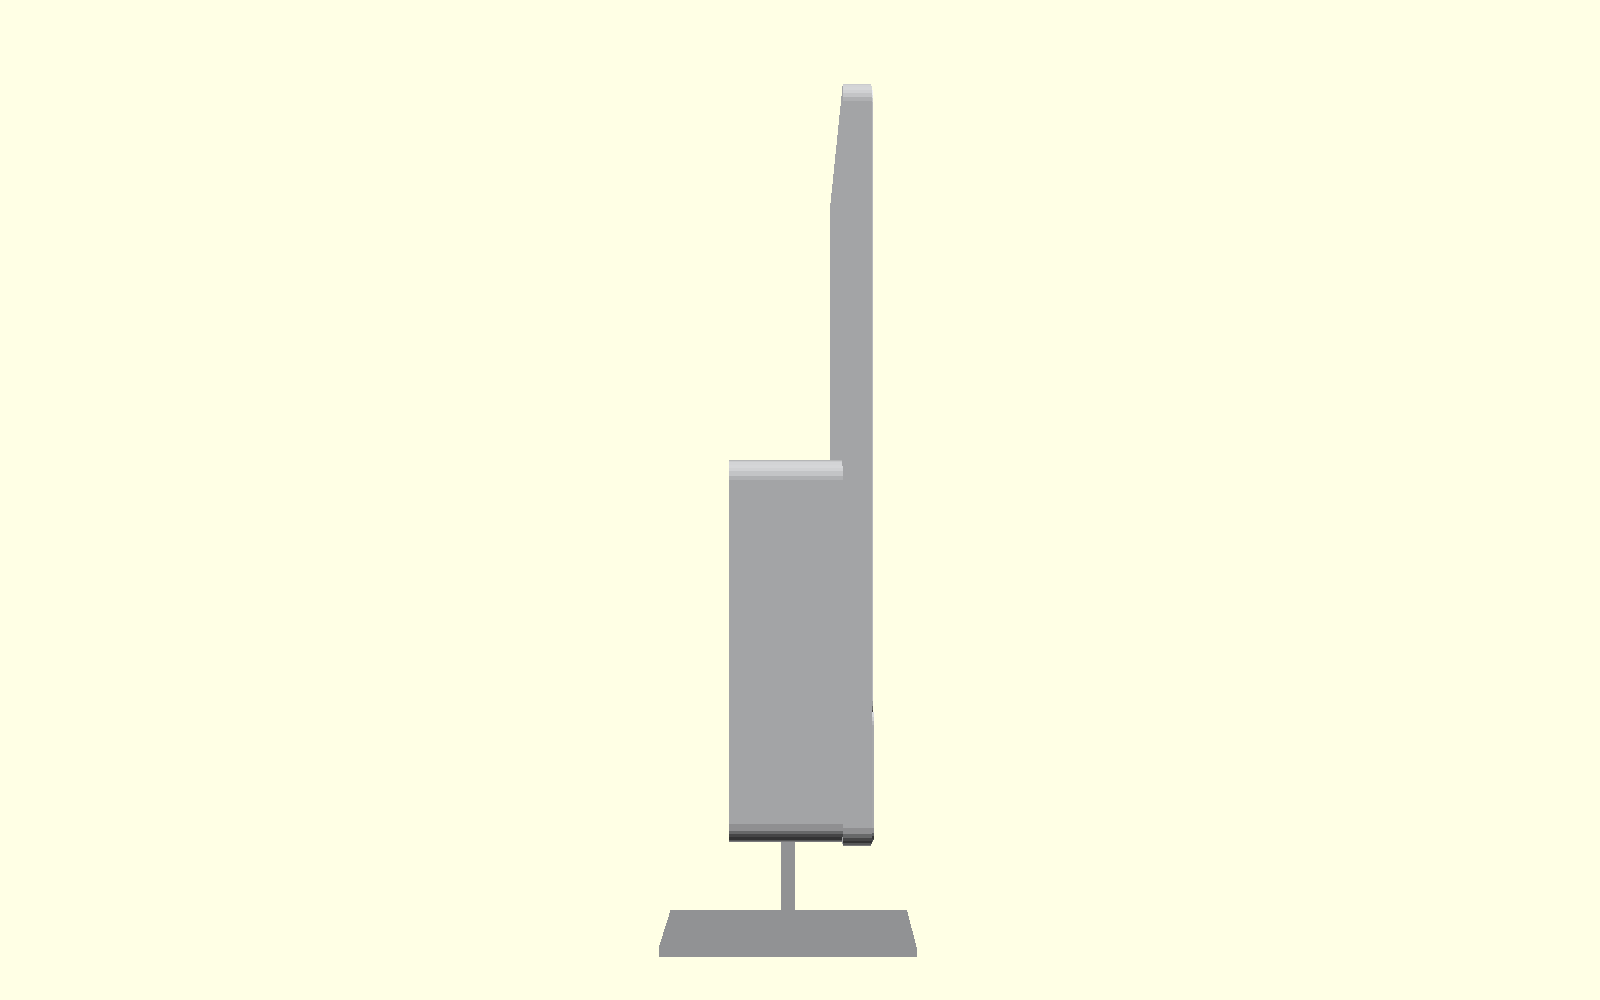
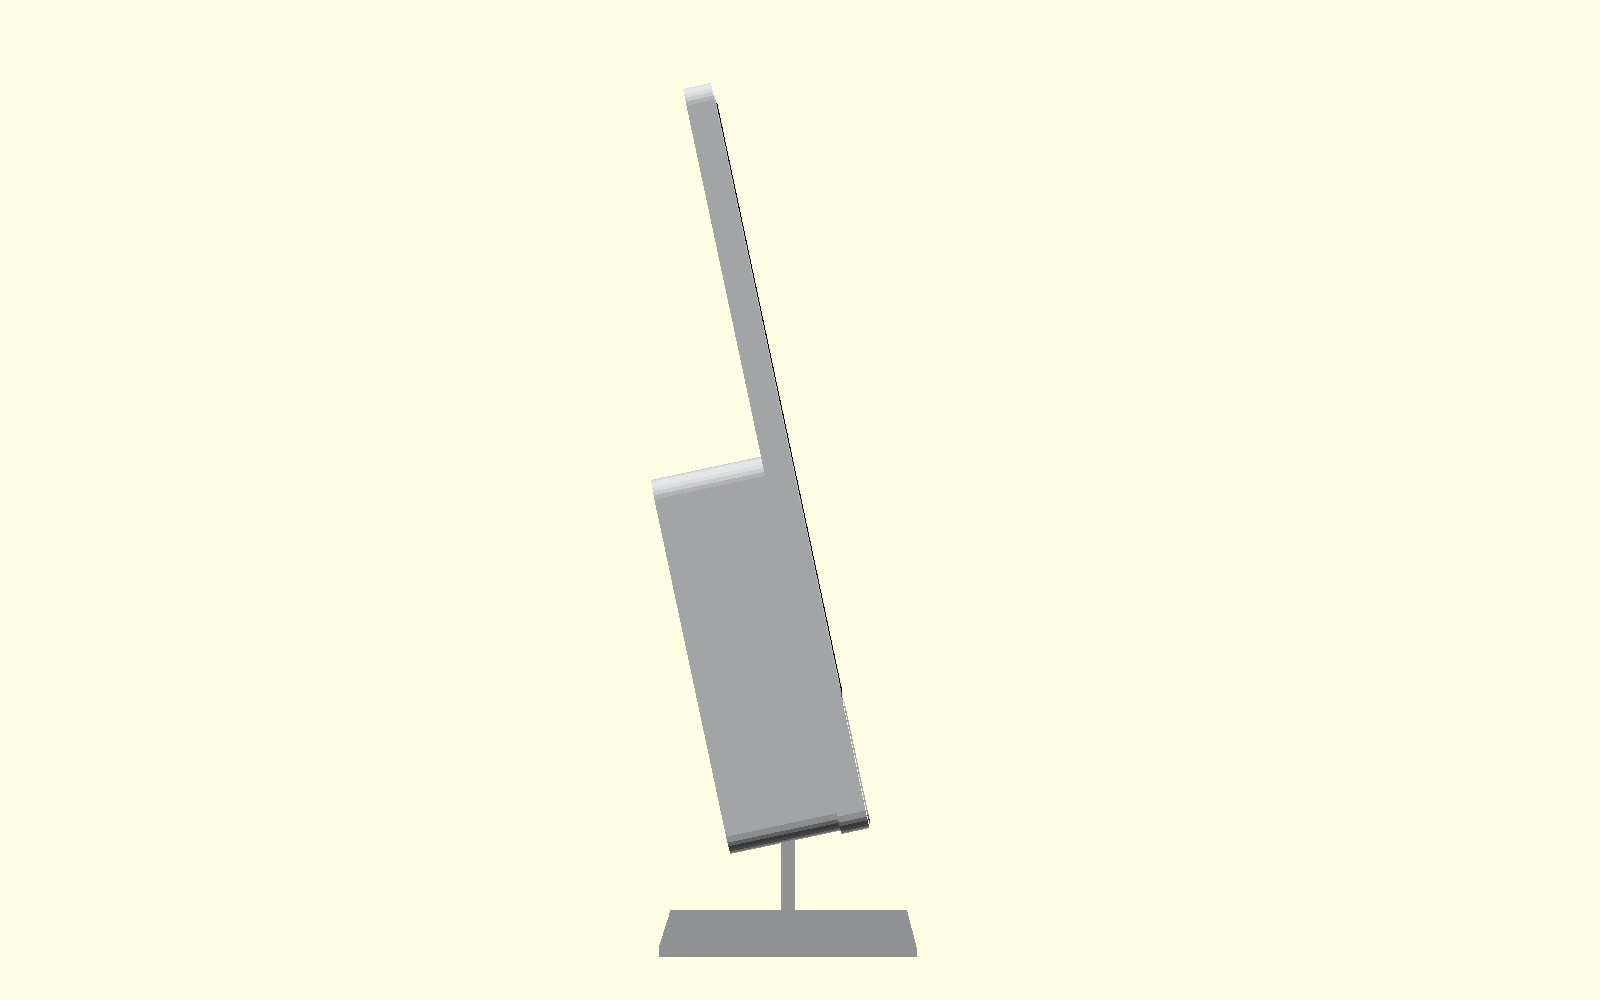
ヒンジ/電源凹み/チルトとパネル24/27切替を追加、GPUを実在ITXカード寸法に更新、予算と部品案を更新
Claude-Session: https://claude.ai/code/session_01HbAbrZKUvZxhmzCz9B9StP

Changed region(s): [[0.4062, 0.062, 0.5625, 0.868]]

diff --git a/tools/gen_drawing.py b/tools/gen_drawing.py
@@ -2,7 +2,7 @@
 """cad/imac_like_pc.scad と同じ寸法から 設計図SVG を生成する (単位 mm)。"""
 W,panel_w,panel_h,bezel,chin=547,527,296.5,10,68
 H=panel_h+bezel+chin
-slab_t,pod_w,pod_h,pod_t=14,520,190,70
+slab_t,pod_w,pod_h,pod_t=14,W-27,190,70
 stand_w,drop,foot_d=130,85,147
 pod_x0=(W-pod_w)/2
 S=0.9  # px/mm
@@ -59,10 +59,11 @@ R(bx,by,pod_w,pod_h,"#c5c8cc","#555",1.2,10)
 def part(x,y,w,h,fill,label):
     R(bx+x,by+pod_h-y-h,w,h,fill,"#333",1); T(bx+x+w/2,by+pod_h-y-h/2+4,label,10)
 part(8,8,170,170,"#9ac8a6","Mini-ITX 170x170")
-part(188,20,200,125,"#9aa0ad","GPU (ITX 2slot 200x125x40)")
+part(188,20,165,115,"#9aa0ad","GPU 165x115x40(例:RTX5060 SOLO)")
 part(188,148,150,34,"#a9a9d6","DC-ATX 電源基板")
-part(396,35,120,120,"#d9c8a0","120mm 排気ファン")
+part(pod_w-124,35,120,120,"#d9c8a0","120mm 排気ファン")
 part(178,30,8,100,"#bba","ライザー")
+part(360,40,28,100,"#ddd","予備")
 T(bx+pod_w/2,by+pod_h+24,"I/O: 背面左下スリット(USB-C x4 + HDMI/DP, 2.5GbE)  ※基板I/Oを延長ブラケットで引き出し",10)
 dim_h(bx,bx+pod_w,by+pod_h+46,f"ポッド幅 {pod_w}")
 # ---------- 注記 ----------

diff --git a/docs/design.md b/docs/design.md
@@ -29,37 +29,35 @@
 - スタンド: 幅130mm 一枚板アルミ(足の奥行147mm)。ポッド重心(約z=42mm)の真下に配置。
 - 筐体(お任せ): アルミ板金(A5052)レーザー切断+曲げ+アルマイト(シルバー/ブルー等)、前面は強化ガラス(印刷でチン帯)。CNC削り出しより安価で数量1でも外注可能。ポッドカバーは着脱式(背面ネジ4本)で拡張アクセスを確保。
 
-## 3. 部品案 (市販品, 拡張性重視)
-| 区分 | 候補 | 拡張性 |
+## 3. 部品案 (市販品, 拡張性重視) — 2026-11-03 調査反映
+| 区分 | 候補 | 拡張性/備考 |
 |---|---|---|
-| CPU | AMD Ryzen 5 9600X〜7 9700X (AM5, 65W) | CPU交換可 |
-| M/B | AM5 Mini-ITX (DDR5 DIMM x2, M.2 x2, PCIe x16) | メモリ最大 64GB+, M.2追加 |
-| メモリ | DDR5 16〜32GB | 後から増設可 (iMacは不可) |
-| ストレージ | NVMe 1TB | M.2 2基目追加可 |
-| GPU | ITX長 ≤200mm 2スロットの RTX 5060 級(またはRX 9060 XT級) | 交換可。厚さ40mm以下が条件 |
-| 電源 | 外付け 330W+ ACアダプタ + DC-ATX基板(内蔵) | 電源交換可 |
-| 冷却 | 低背CPUクーラー(≤37mm)+ 120mm排気ファン | |
-| ディスプレイ | 23.8〜24型 4K IPS 市販パネル+ドライバ基板 | |
+| CPU | AMD Ryzen 5 9600X〜7 9700X (AM5, 65W) | 交換可。国内価格は2025年時点で9600Xが約4.2万円〜(最新価格は未確認) |
+| M/B | AM5 Mini-ITX: 例 GIGABYTE B650I AX / B850I AORUS PRO / MSI B850I EDGE TI / ASUS TUF B850I NEO | DDR5 DIMM x2(最大128GB), M.2 1〜2基, **PCIe x16は1基のみ**。B850I AORUS PROは国内約3.9万円(在庫なし表示) |
+| メモリ | DDR5 16〜32GB | 後から増設可(iMacは不可)。32GB単体価格は未確認 |
+| ストレージ | NVMe 1TB | M.2追加可 |
+| GPU | **MSI RTX 5060 8G INSPIRE ITX OC**(全長145mm, 2スロット, 約5.2万円) または **ZOTAC RTX 5060 SOLO**(全長165mm, 2スロット, 約5.6万円) | 交換可。ポッド内寸 厚さ約53mm/幅≒520mmに収まる想定。**カード高さ・厚さは未確認(モデルは115x40と仮定)** |
+| 電源 | 外付け 330W級 ACアダプタ + DC-ATX基板 | 要:選定(5060+9600Xの実測消費を確認) |
+| 冷却 | 低背CPUクーラー(<=37mm) + 120mm排気ファン | |
+| ディスプレイ | **23.8〜24型 4K IPS パネル: 入手情報なし(検索ではLM238系はFHDのみ)** | **最大リスク**。代替: `panel_size=27` で27型4Kに拡大(本体 約617x約420mm) |
 | その他 | USBカメラ基板, 小型スピーカー, Wi-Fi 7 M.2 | |
 
-性能目安: CPUは M6 10コアと同等以上(マルチ)、GPUはM6 12コアGPUを大きく上回るゲーム性能を想定。ただし数値は未測定。
-
-## 4. 概算予算 (要: 最新価格確認。値は実測ではなく想定)
+## 4. 概算予算 (要: 最新価格確認。調査で確認できた価格以外は想定)
 上限: **249,800円**(M6 iMac 10コア)
-| 項目 | 概算(円) |
-|---|---|
-| 4K 24型パネル+ドライバ | 35,000 |
-| Ryzen 5 9600X | 38,000 |
-| AM5 ITX マザー | 28,000 |
-| DDR5 16GB | 15,000 |
-| NVMe 1TB | 14,000 |
-| GPU(RTX 5060級) | 50,000 |
-| DC-ATX+ACアダプタ | 20,000 |
-| 冷却 | 8,000 |
-| 板金筐体(外注, 1台) | 25,000 |
-| 小物(カメラ/スピーカー/Wi-Fi/配線) | 10,000 |
-| **合計** | **約243,000** |
-注意: DRAM価格高騰時期は変動大。数量1の板金外注はもっと高くなる可能性があり、上限ギリギリ。超過リスクは筐体費。
+| 項目 | 概算(円) | 根拠 |
+|---|---|---|
+| 24型4Kパネル+ドライバ | 35,000 | **想定。入手性未確認** |
+| Ryzen 5 9600X | 42,000 | 国内2025年価格(41,980円〜) |
+| AM5 ITXマザー | 28,000〜39,000 | B650I AX(欧€161)〜B850I AORUS PRO(国内39,433円) |
+| DDR5 16GB | 15,000 | 想定(未確認) |
+| NVMe 1TB | 14,000 | 想定 |
+| GPU(RTX 5060 ITX) | 52,000 | MSI INSPIRE ITX 51,800円(発売時, 在庫なし) |
+| DC-ATX+ACアダプタ | 20,000 | 想定 |
+| 冷却 | 8,000 | 想定 |
+| 板金筐体(外注1台) | 25,000 | 想定。数量1は高くなる可能性 |
+| 小物 | 10,000 | 想定 |
+| **合計** | **約249,000〜260,000** | 上限に**ギリギリ〜超過** |
+削減案: 安価なB650I系ボード採用、Ryzen 5 7600(AM5)へ変更、筐体を3Dプリント+板金のハイブリッド化、メモリ16GB据え置き。
 
 ## 5. 熱・電力 (未検証)
 - 想定: CPU ~90W + GPU ~145W + パネル ~30W ≒ 270W。外付け330Wアダプタ想定。
@@ -72,6 +70,6 @@
 - `concept/blueprint.svg` : 寸法入り設計図。`python3 tools/gen_drawing.py` で再生成。
 
 ## 7. 次のステップ
-1. 採用ITXボードとGPUの実寸を取得し、取付穴・I/O位置をscadに反映。
-2. パネル型番確定(4K 23.8/24型の入手可否が最大リスク)。
+1. **パネルの入手可否を確定**(4K 23.8/24型が無ければ `panel_size=27` に切替)。
+2. 採用ITXボードとGPUの実寸(特にGPUの高さ/厚さ)を取得し、scadに反映。
 3. 板金メーカーの見積もりで予算確認。
